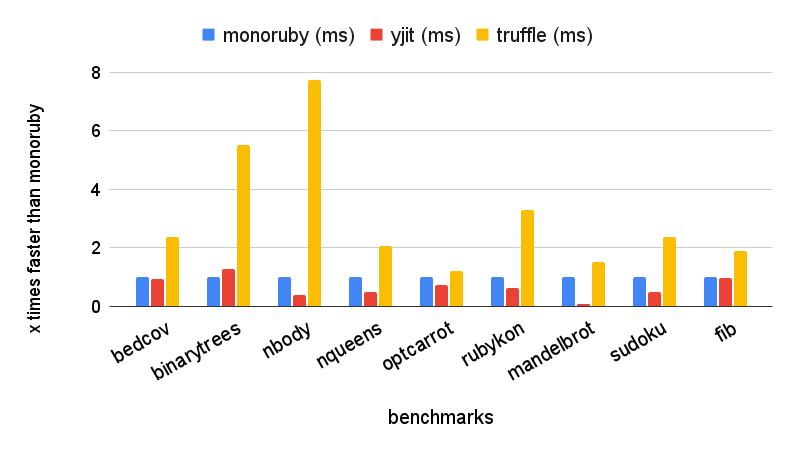
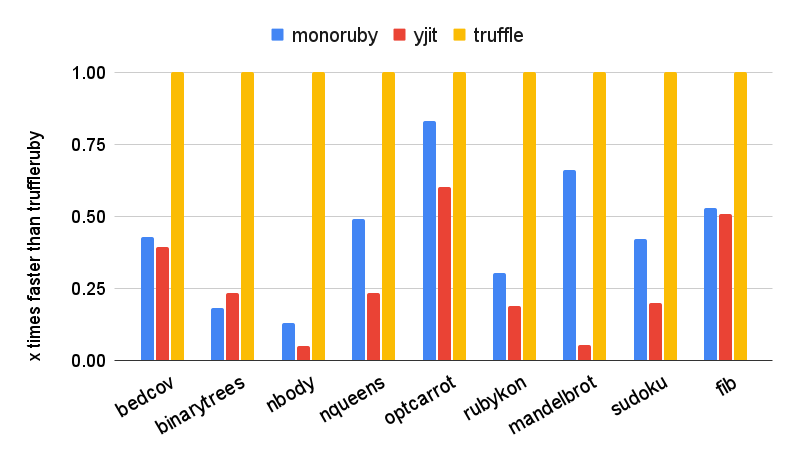
Fix docs.

diff --git a/README.md b/README.md
@@ -95,54 +95,41 @@ and its REPL.
 
 ## Benchmark
 
-### 1. optcarrot banechmark
+### 1. Optcarrot banechmark
 
-Please see wiki for details. (https://github.com/sisshiki1969/monoruby/wiki/optcarrot_benchmark)
+Please see [wiki](https://github.com/sisshiki1969/monoruby/wiki/optcarrot_benchmark) for details. 
 
 Several Ruby implementations described below were measured by [optcarrot](https://github.com/mame/optcarrot) benchmark.
+
+#### Versions of used Rubies
 
 - ruby 3.4.0dev (2024-04-27T08:56:20Z master 9ea77cb351) [x86_64-linux]
 - truffleruby 24.0.1, like ruby 3.2.2, Oracle GraalVM JVM [x86_64-linux]
 - truffleruby 24.0.1, like ruby 3.2.2, Oracle GraalVM Native [x86_64-linux]
 - monoruby: 3e348afd4141c40978342e67ad26d42dc0b8d2a7
 
-#### optcarrot benchmark
+#### Optcarrot benchmark
 
 ![optcarrot_benchmark](./doc/optcarrot_benchmark.png)
 
-#### optcarrot fps history (0-3000 frames)
+#### Optcarrot fps history (0-3000 frames)
 
 ![optcarrot_fps_history](./doc/optcarrot_fps_history.png)
 
-### 2. micro benchmark
+### 2. Other benchmarks
 
-please see wiki for details. (https://github.com/sisshiki1969/monoruby/wiki/micro_benchmark)
+Please see [wiki](https://github.com/sisshiki1969/monoruby/wiki/micro_benchmark) for details.
 
-- measured by [yjit-bench](https://github.com/Shopify/yjit-bench) with '--harness=harness-warmup' option.
-- benchmark codes are in [the official repo](https://github.com/ruby/ruby/tree/master/benchmark) and [plb2](https://github.com/attractivechaos/plb2).
+Several Ruby implementations described below were measured bymeasured by [yjit-bench](https://github.com/Shopify/yjit-bench).
 
-#### Version of used Rubies
+#### Versions of used Rubies
 
 - monoruby: monoruby 0.3.0
 - yjit: ruby 3.4.1 (2024-12-25 revision 48d4efcb85) +YJIT +PRISM [x86_64-linux]
 - truffleruby-24.1.1: truffleruby 24.1.1, like ruby 3.2.4, Oracle GraalVM Native [x86_64-linux]
 
-| bench         | monoruby (ms) | RSS (MiB) | yjit (ms) | RSS (MiB) | truffle (ms) | RSS (MiB) | monoruby/yjit | monoruby/truffle |
-| :------------ | ------------: | --------: | --------: | --------: | -----------: | --------: | ------------: | ---------------: |
-| bedcov        |        4412.0 |     234.3 |    4803.9 |     413.8 |       1881.8 |    1909.5 |         0.918 |            2.345 |
-| binarytrees   |         175.0 |      28.7 |     137.0 |      22.0 |         31.7 |    1126.4 |         1.278 |            5.525 |
-| matmul        |          39.7 |      35.0 |     121.8 |      22.8 |          1.4 |     803.2 |         0.326 |           29.059 |
-| nbody         |           8.5 |      27.7 |      21.9 |      14.0 |          1.1 |     690.2 |         0.389 |            7.473 |
-| nqueens       |          14.7 |      24.7 |      31.0 |      14.2 |          7.2 |     637.9 |         0.475 |            2.044 |
-| optcarrot     |         520.4 |      79.0 |     720.9 |      54.7 |        432.2 |    1506.3 |         0.722 |            1.204 |
-| rubykon       |         214.9 |      34.9 |     348.2 |      18.6 |         65.2 |    2279.9 |         0.617 |            3.298 |
-| so_mandelbrot |          39.9 |      22.9 |     509.5 |      14.5 |         26.3 |     548.8 |         0.078 |            1.517 |
-| sudoku        |          41.6 |      23.9 |      88.8 |      14.9 |         17.5 |    1165.2 |         0.469 |            2.381 |
-| fib           |          16.7 |      23.5 |      17.4 |      15.0 |          8.8 |     483.4 |         0.960 |            1.895 |
+#### Results
 
-Legend:
-
-- monoruby/yjit: ratio of monoruby/yjit time. Higher is better for yjit. Above 1 represents a speedup.
-- monoruby/truffle: ratio of monoruby/truffleruby-24.1.1 time. Higher is better for truffleruby. Above 1 represents a speedup.
+The graph shows the speed ratio against truffleruby. (higher is better)
 
 ![micro_bench](./doc/chart.png)
